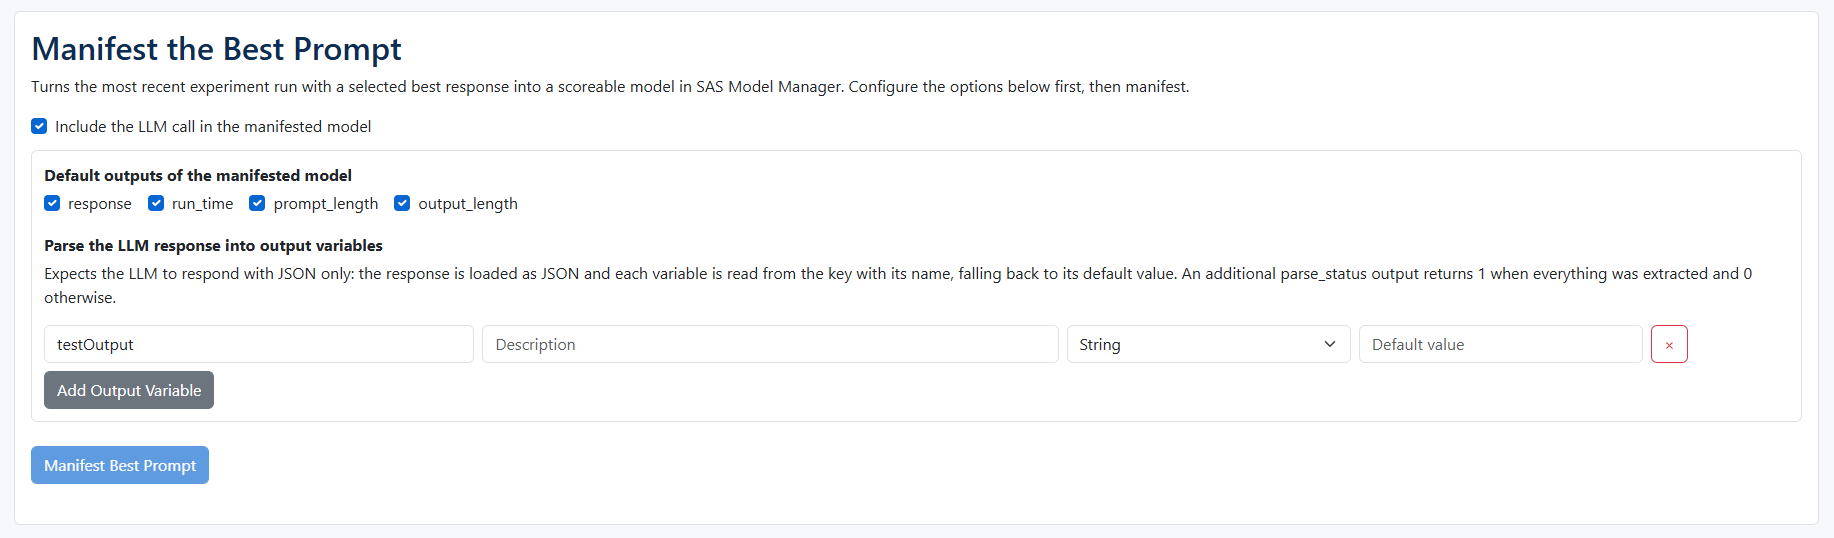
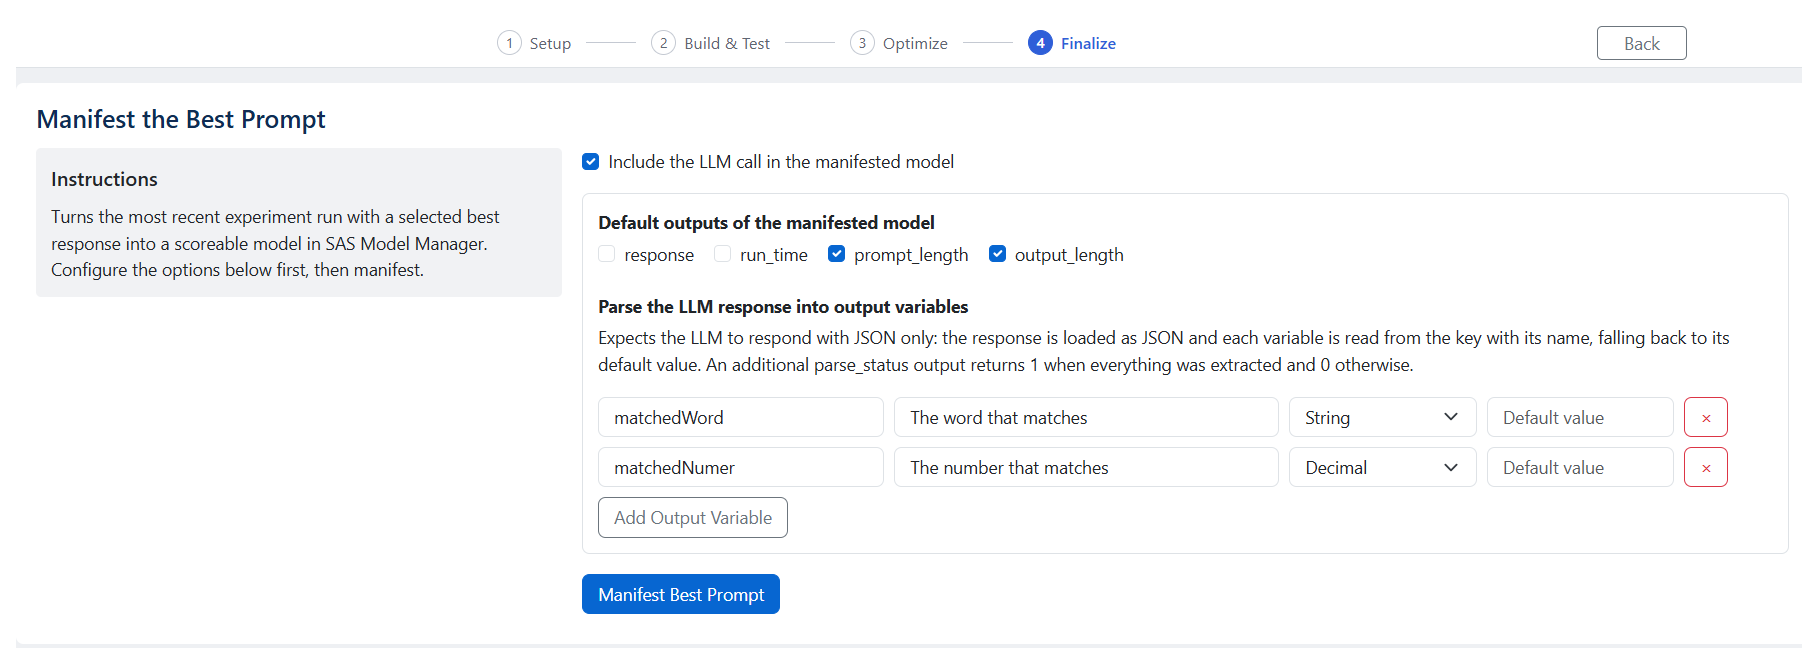
User-guide screenshots show the step flow
The three remaining Prompt Builder screenshots (the other four went in
with the step-flow commit) and captions that describe what each image
now shows.

diff --git a/website/docs/User-Guide/Prompt-Builder.md b/website/docs/User-Guide/Prompt-Builder.md
@@ -38,7 +38,7 @@ Selecting a prompt-test loads its saved experiment runs into the **Prompt Experi
 
 The LLM list shows every model available in your environment's LLM project. Tick each model you want to include in the comparison. When you tick one, its **options** appear — temperature, top-p, top-k, maximum length/tokens and any model-specific settings. Each option has an **ℹ info icon**; hover or focus it for an explanation of what the setting does and a sensible range.
 
-![Selected LLMs with their options expanded and an option info tooltip showing](../../static/Prompt-Builder-Model-Options.png)
+![Selected LLMs on the Build & Test step with their options expanded, including a segmented Reasoning Effort control](../../static/Prompt-Builder-Model-Options.png)
 
 You can select as many models as you like; they all run against the same prompt so you get a true side-by-side comparison. Models an administrator has marked as deprecated are hidden from the list.
 
@@ -53,7 +53,7 @@ The workbench has two boxes:
 
 Real prompts rarely use fixed text. Define **variables** above the prompt boxes — each has a name, an optional description, a type (string or decimal) and a value — then reference them anywhere in either prompt with the `{{variableName}}` syntax. Right-click inside a prompt box to insert a defined variable at the cursor.
 
-![The prompt workbench with variables defined and referenced with the double-brace syntax](../../static/Prompt-Builder-Variables.png)
+![The prompt workbench with variables defined, referenced with the double-brace syntax, and the right-click Insert variable menu open](../../static/Prompt-Builder-Variables.png)
 
 When you run an experiment, the current values are filled in before the prompts are sent. Variables are more than a convenience: when you later manifest the best prompt, they become the documented **inputs** of the resulting model, so the model's callers know exactly what to supply.
 
@@ -61,7 +61,7 @@ When you run an experiment, the current values are filled in before the prompts 
 
 Press **Run Experiments**. The tool sends the resolved prompts to every selected model in parallel and, when they return, shows each model's result in the tracker: the response (rendered as Markdown), the time to respond, and the input/output token counts. Two mechanical flags are added automatically for the run — a ⚡ icon on the **fastest** response and a ⌄ icon on the one with the **fewest output tokens**. Each response is a starting point; speed and length are not quality, which is where judging comes in.
 
-![An experiment run with two models compared side by side and the fastest / fewest-tokens icons](../../static/Prompt-Builder-Experiment-Results.png)
+![The experiment tracker with its run summary and icon legend, and a run showing its prompts, variables and verdict](../../static/Prompt-Builder-Experiment-Results.png)
 
 ## Judge the responses
 
@@ -73,7 +73,7 @@ Speed and token count do not tell you which answer is actually best. The **Judge
 
 The judge sees all of the run's responses at once, in a shuffled order and under anonymous labels (so position and brand cannot sway it), reasons about them step by step, and returns a ranking. The result appears as a banner on the run: the **winner**, the full **ranking**, a **confidence** level, and the judge's **reasoning** behind a "Show reasoning" toggle. The best-ranked response also gets a 🏆 icon next to the ⚡ and ⌄ icons, and each response shows its **judge rank**.
 
-![The judge controls and a verdict banner showing the winner, ranking, confidence and reasoning](../../static/Prompt-Builder-Judge-Verdict.png)
+![A verdict banner from a council of judges: the tie, the ranking, each judge's ballot with its reasoning, and the model results below](../../static/Prompt-Builder-Judge-Verdict.png)
 
 :::note The judge is advisory
 Judging never changes your **Best Response** selection — that stays a decision you make. The judge rank is a signal to help you decide, alongside the responses themselves and the run metrics.
